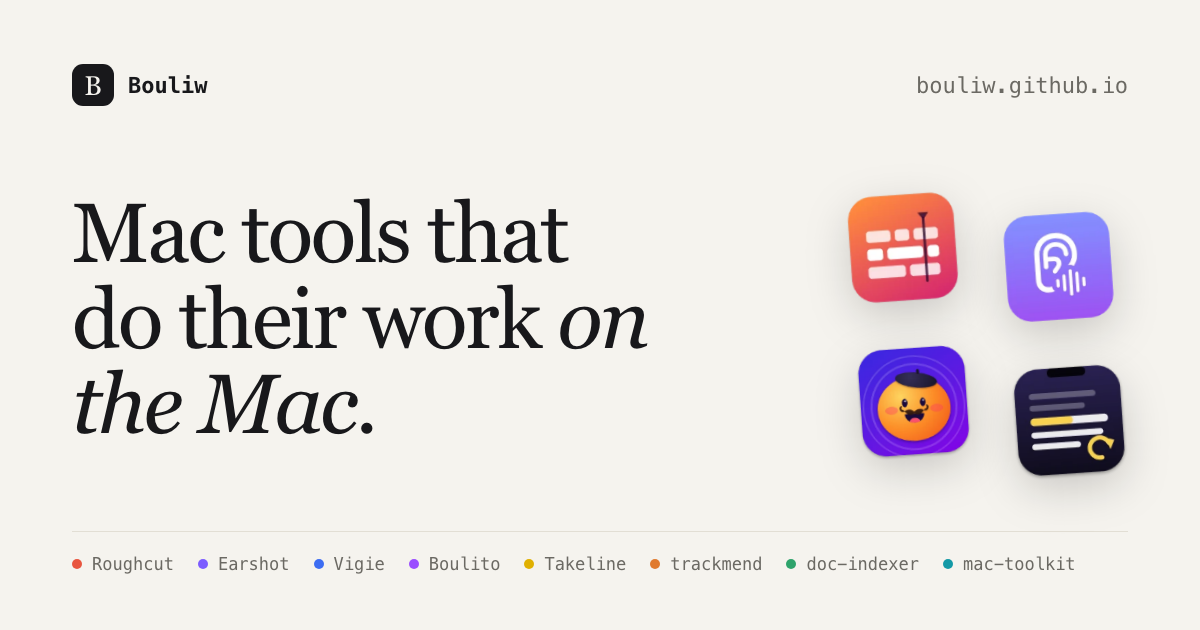
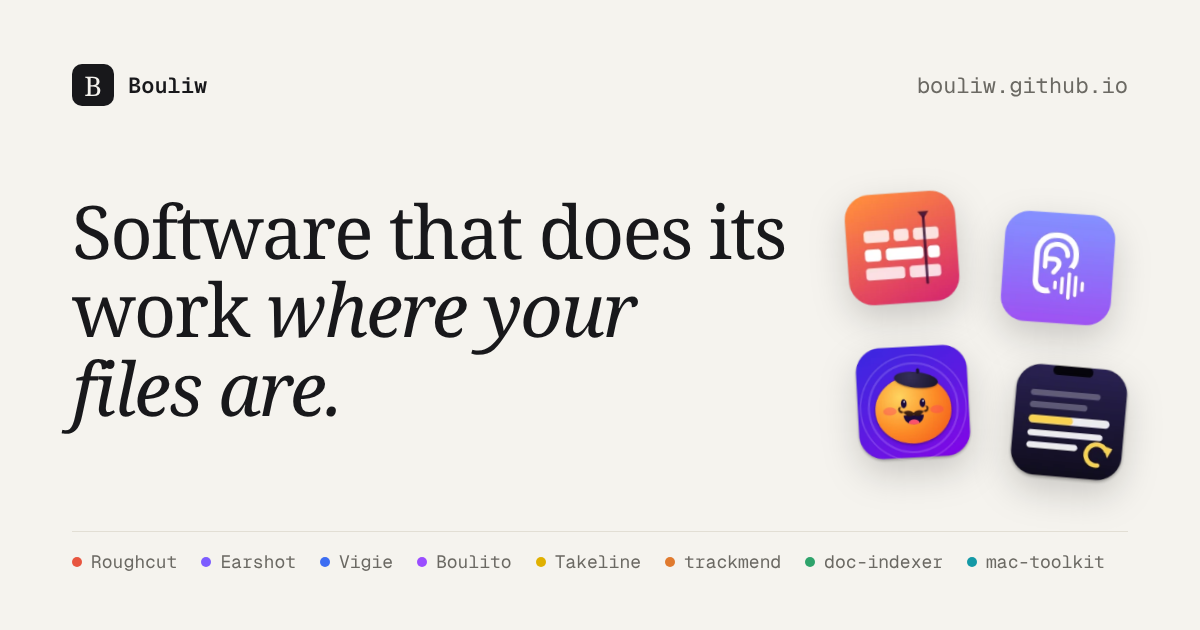
New headline: software that does its work where your files are
Updates the title, the Open Graph image and the fun-mode extras, which now name the project themes (video, voice, blue team, music, OCR, open source).

diff --git a/fun/fun.css b/fun/fun.css
@@ -335,6 +335,7 @@ html.fx-anim :is([data-skin="y2k"] :is(.top, .hero, .project, .upstream, footer)
 :is([data-skin="phantom"] :is(.top, .hero, .project, .upstream, footer), [data-skin="mix"] :is(.top, .hero, [id="takeline"])).hero h1 em .fx-split { display: inline-flex; flex-wrap: wrap; gap: .04em .02em; vertical-align: top; text-shadow: none; margin-top: .08em; }
 :is([data-skin="phantom"] :is(.top, .hero, .project, .upstream, footer), [data-skin="mix"] :is(.top, .hero, [id="takeline"])).hero h1 em .fx-split .fx-w { display: inline-flex; gap: .02em; margin-right: .22em; }
 :is([data-skin="phantom"] :is(.top, .hero, .project, .upstream, footer), [data-skin="mix"] :is(.top, .hero, [id="takeline"])).hero h1 em .fx-ch { display: inline-block; padding: .02em .08em .04em; line-height: 1; }
+:is([data-skin="phantom"] :is(.top, .hero, .project, .upstream, footer), [data-skin="mix"] :is(.top, .hero, [id="takeline"])).hero h1 em .fx-gap { display: inline-block; width: .2em; }
 :is([data-skin="phantom"] :is(.top, .hero, .project, .upstream, footer), [data-skin="mix"] :is(.top, .hero, [id="takeline"])).hero h1 em .fx-ch:nth-of-type(5n+1) { font-family: "FX Anton"; background: var(--p-box); color: var(--p-on-box); rotate: -4deg; }
 :is([data-skin="phantom"] :is(.top, .hero, .project, .upstream, footer), [data-skin="mix"] :is(.top, .hero, [id="takeline"])).hero h1 em .fx-ch:nth-of-type(5n+2) { font: italic 900 1.05em/1 "FX Display", serif; text-transform: none; background: var(--p-red); color: #fff; rotate: 3deg; translate: 0 .06em; }
 :is([data-skin="phantom"] :is(.top, .hero, .project, .upstream, footer), [data-skin="mix"] :is(.top, .hero, [id="takeline"])).hero h1 em .fx-ch:nth-of-type(5n+3) { font: normal 900 .86em/1 "FX Geist", sans-serif; color: var(--ink); box-shadow: inset 0 0 0 .07em var(--ink); rotate: -1.5deg; }
@@ -467,8 +468,8 @@ html.fx-anim :is([data-skin="phantom"] :is(.top, .hero, .project, .upstream, foo
 }
 @keyframes e-flicker { 0%, 62%, 66%, 100% { opacity: 1; } 63%, 65% { opacity: .15; } }
 :is([data-skin="alert"] :is(.top, .hero, .project, .upstream, footer), [data-skin="mix"] :is([id="vigie"], [id="doc-indexer"])).hero h1 {
-  font: 900 clamp(3.2rem, 10.5vw, 9.4rem)/.82 "FX Serif", serif; font-stretch: 62.5%; text-transform: uppercase; letter-spacing: -.005em;
-  max-width: 9ch; color: var(--ink); padding-top: .12em; border-top: 4px solid var(--ink);
+  font: 900 clamp(3rem, 8vw, 7.6rem)/.84 "FX Serif", serif; font-stretch: 62.5%; text-transform: uppercase; letter-spacing: -.005em;
+  max-width: 13ch; color: var(--ink); padding-top: .12em; border-top: 4px solid var(--ink);
 }
 :is([data-skin="alert"] :is(.top, .hero, .project, .upstream, footer), [data-skin="mix"] :is([id="vigie"], [id="doc-indexer"])).hero h1 em { font-style: normal; color: var(--e-or); }
 :is([data-skin="alert"] :is(.top, .hero, .project, .upstream, footer), [data-skin="mix"] :is([id="vigie"], [id="doc-indexer"])).hero .lede { color: var(--text); border-left: 4px solid var(--e-or); padding-left: 18px; }
@@ -969,14 +970,14 @@ html[data-skin="overdrive"] .hero .fx-deco::before {
   font: 400 clamp(26px, 3.4vw, 46px)/1 "FX Dot", monospace; letter-spacing: .12em; color: var(--v-text); opacity: .9;
 }
 html[data-skin="overdrive"] .hero .fx-deco::after {
-  content: "ON-DEVICE  OPEN SOURCE  MADE ON A MAC  ON-DEVICE  OPEN SOURCE  MADE ON A MAC  "; position: absolute; left: 0; top: 30%; white-space: pre;
+  content: "VIDEO  VOICE  BLUE TEAM  MUSIC  OCR  OPEN SOURCE  VIDEO  VOICE  BLUE TEAM  MUSIC  OCR  OPEN SOURCE  "; position: absolute; left: 0; top: 30%; white-space: pre;
   font: 900 clamp(7rem, 18vw, 17rem)/1 "FX Serif", serif; font-stretch: 62.5%; color: transparent; -webkit-text-stroke: 1.5px color-mix(in oklab, var(--ink) 9%, transparent);
   animation: od-slide 60s linear infinite;
 }
 @keyframes od-slide { to { translate: -50% 0; } }
 html[data-skin="overdrive"] .hero h1 {
-  position: relative; isolation: isolate; max-width: 10ch; margin-top: 8px;
-  font: 900 clamp(3.3rem, 9.8vw, 9.2rem)/.84 "FX Serif", serif; font-stretch: 62.5%; letter-spacing: -.005em; text-transform: uppercase; color: var(--ink);
+  position: relative; isolation: isolate; max-width: 13ch; margin-top: 8px;
+  font: 900 clamp(3rem, 7.4vw, 7.4rem)/.86 "FX Serif", serif; font-stretch: 62.5%; letter-spacing: -.005em; text-transform: uppercase; color: var(--ink);
 }
 html[data-skin="overdrive"] .hero h1::before, html[data-skin="overdrive"] .hero h1::after, html[data-skin="overdrive"] main h2::before {
   content: attr(data-text); position: absolute; inset: 0; pointer-events: none; white-space: normal;
@@ -1002,10 +1003,11 @@ html[data-skin="overdrive"] .od-stickers { display: block; position: absolute; i
   border: 2px solid #0a0a0b; box-shadow: 4px 4px 0 #0a0a0b; border-radius: 999px; animation: od-bob 3.2s ease-in-out infinite alternate; cursor: grab;
 }
 .od-sticker:active { cursor: grabbing; }
-.od-sticker.s1 { top: 6%; right: 16%; background: #b6ff3b; color: #0a0a0b; rotate: -8deg; }
-.od-sticker.s2 { top: 24%; right: 6%; background: #6b2bff; color: #fff; rotate: 6deg; animation-delay: -1s; }
-.od-sticker.s3 { top: 40%; right: 21%; background: #ff2e88; color: #0a0a0b; rotate: -3deg; animation-delay: -2s; border-radius: 6px; }
-.od-sticker.s4 { top: 12%; right: 33%; background: #fff; color: #0a0a0b; rotate: 12deg; animation-delay: -.5s; font: 400 11px/1 "FX Press", monospace; padding: 9px 12px; border-radius: 0; }
+.od-sticker.s1 { top: 4%; right: 6%; background: #b6ff3b; color: #0a0a0b; rotate: -8deg; }
+.od-sticker.s2 { top: 19%; right: 15%; background: #6b2bff; color: #fff; rotate: 6deg; animation-delay: -1s; }
+.od-sticker.s3 { top: 33%; right: 2%; background: #ff2e88; color: #0a0a0b; rotate: -3deg; animation-delay: -2s; border-radius: 6px; }
+.od-sticker.s5 { top: 60%; right: 6%; background: #22d3ee; color: #0a0a0b; rotate: 7deg; animation-delay: -1.6s; }
+.od-sticker.s4 { top: 46%; right: 17%; background: #fff; color: #0a0a0b; rotate: 12deg; animation-delay: -.5s; font: 400 11px/1 "FX Press", monospace; padding: 9px 12px; border-radius: 0; }
 @keyframes od-bob { to { translate: 0 -8px; } }
 
 /* Index as a tilted game menu */

diff --git a/fun/fun.js b/fun/fun.js
@@ -119,7 +119,7 @@
       text.split(' ').forEach(word => {
         const w = document.createElement('span');
         w.className = 'fx-w';
-        [...word].forEach(c => { const ch = document.createElement('span'); ch.className = 'fx-ch'; ch.textContent = c; w.append(ch); });
+        [...word].forEach(c => { const ch = document.createElement('span'); ch.className = c === '\u00a0' ? 'fx-gap' : 'fx-ch'; ch.textContent = c; w.append(ch); });
         split.append(w);
       });
       em.replaceChildren(orig, split);
@@ -155,7 +155,7 @@
     const hero = document.querySelector('.hero');
     if (hero) {
       const mq = hidden('div', 'fx-marquee');
-      const t = 'OPEN SOURCE ✦ MADE ON A MAC ✦ BEST VIEWED AT ANY RESOLUTION ✦ Y2K COMPLIANT ✦ NO INSTALL CD NEEDED ✦ ';
+      const t = 'VIDEO ✦ VOICE ✦ BLUE TEAM ✦ MUSIC ✦ OCR ✦ OPEN SOURCE ✦ BEST VIEWED AT ANY RESOLUTION ✦ Y2K COMPLIANT ✦ ';
       const span = document.createElement('span');
       span.textContent = t.repeat(3) + t.repeat(3);
       mq.append(span);
@@ -163,7 +163,7 @@
     }
     const foot = document.querySelector('footer');
     if (foot) {
-      add(hidden('div', 'fx-badges', ['MADE ON<br>A MAC', 'OPEN<br>SOURCE', 'Y2K<br>COMPLIANT', 'FUN MODE<br>ON', 'ANY<br>BROWSER'].map(x => `<b>${x}</b>`).join('')), foot);
+      add(hidden('div', 'fx-badges', ['VIDEO &amp;<br>VOICE', 'OPEN<br>SOURCE', 'BLUE<br>TEAM', 'MUSIC<br>&amp; OCR', 'Y2K<br>COMPLIANT'].map(x => `<b>${x}</b>`).join('')), foot);
     }
 
     // Reveal on scroll.
@@ -251,15 +251,15 @@
 
     if (hero) {
       const st = add(hidden('div', 'od-stickers',
-        '<span class="od-sticker s1">OPEN SOURCE</span><span class="od-sticker s2">ON-DEVICE ✦</span>' +
-        '<span class="od-sticker s3">MADE ON A MAC</span><span class="od-sticker s4">1UP</span>'), hero);
+        '<span class="od-sticker s1">OPEN SOURCE</span><span class="od-sticker s2">VIDEO ✦</span>' +
+        '<span class="od-sticker s3">BLUE TEAM</span><span class="od-sticker s4">VOICE</span><span class="od-sticker s5">MUSIC ♪</span>'), hero);
       st.querySelectorAll('.od-sticker').forEach(s => {
         let sx = 0, sy = 0, ox = 0, oy = 0, drag = false;
         s.addEventListener('pointerdown', e => { drag = true; s.setPointerCapture(e.pointerId); sx = e.clientX - ox; sy = e.clientY - oy; s.style.animation = 'none'; });
         s.addEventListener('pointermove', e => { if (!drag) return; ox = e.clientX - sx; oy = e.clientY - sy; s.style.translate = `${ox}px ${oy}px`; });
         s.addEventListener('pointerup', () => { drag = false; });
       });
-      add(hidden('div', 'od-band', `<span>${'OPEN SOURCE ✦ ON-DEVICE ✦ MADE ON A MAC ✦ FUN MODE ON ✦ 楽しい ✦ '.repeat(6)}</span>`), hero);
+      add(hidden('div', 'od-band', `<span>${'VIDEO ✦ VOICE ✦ BLUE TEAM ✦ MUSIC ✦ OCR ✦ OPEN SOURCE ✦ 楽しい ✦ '.repeat(6)}</span>`), hero);
     }
 
     projects.forEach((p, i) => {

diff --git a/index.html b/index.html
@@ -3,16 +3,16 @@
 <head>
 <meta charset="utf-8">
 <meta name="viewport" content="width=device-width, initial-scale=1">
-<title>Bouliw · Mac tools that do their work on the Mac</title>
+<title>Bouliw · Software that does its work where your files are</title>
 <meta name="description" content="Open-source apps and command-line tools for macOS: rough cuts for Final Cut Pro, live transcription, an on-device voice assistant, Sigma log analysis and more.">
-<meta property="og:title" content="Bouliw · Mac tools that do their work on the Mac">
+<meta property="og:title" content="Bouliw · Software that does its work where your files are">
 <meta property="og:description" content="Open-source apps and command-line tools for macOS, most of them running entirely on-device.">
 <meta property="og:url" content="https://bouliw.github.io/">
 <meta property="og:type" content="website">
 <meta property="og:image" content="https://bouliw.github.io/assets/og.png">
 <meta property="og:image:width" content="1200">
 <meta property="og:image:height" content="630">
-<meta property="og:image:alt" content="Bouliw: Mac tools that do their work on the Mac. Roughcut, Earshot, Vigie, Boulito, Takeline, trackmend, doc-indexer and mac-toolkit.">
+<meta property="og:image:alt" content="Bouliw: Software that does its work where your files are. Roughcut, Earshot, Vigie, Boulito, Takeline, trackmend, doc-indexer and mac-toolkit.">
 <meta name="twitter:card" content="summary_large_image">
 <meta name="theme-color" content="#f5f3ee" media="(prefers-color-scheme: light)">
 <meta name="theme-color" content="#0f0f11" media="(prefers-color-scheme: dark)">
@@ -212,7 +212,7 @@ footer a:hover { text-decoration: underline; text-underline-offset: 4px; }
 </header>
 
 <section class="hero">
-  <h1>Mac tools that do their work <em>on the Mac.</em></h1>
+  <h1>Software that does its work <em>where your files&nbsp;are.</em></h1>
   <p class="lede">I build apps and command-line tools to fix problems I actually have, then publish them as open source. Most of them run entirely on-device, so footage, audio, logs and documents stay on the machine.</p>
 
   <nav class="index" aria-label="Projects">
